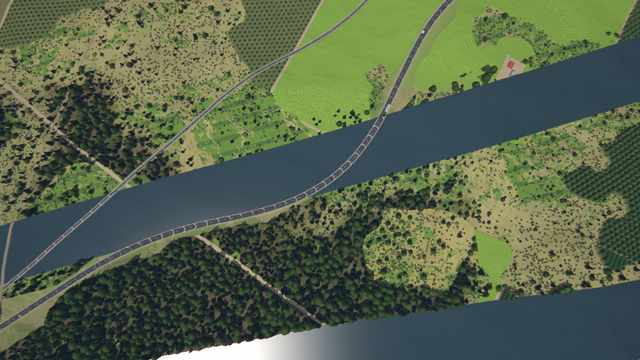
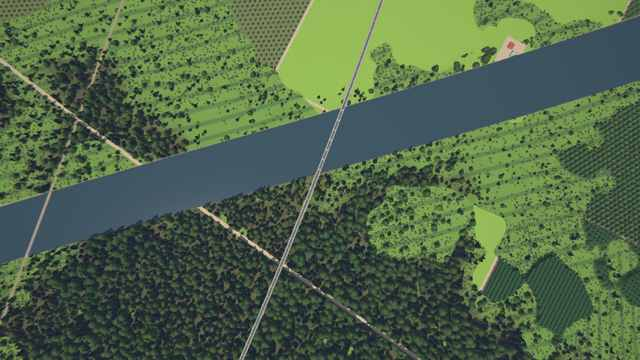
transport: river crossings cost per metre of bridge (no mountain detours), places moved with the routes, tunnel count in the verification, docs

diff --git a/crates/terragen/src/kits/transport/tests.rs b/crates/terragen/src/kits/transport/tests.rs
@@ -14,13 +14,13 @@ fn world() -> World {
 /// Places of the default world where the kit draws: (name, lat, lon), for the tests and stills
 /// (`find_transport_places`).
 pub(crate) const PLACES: &[(&str, f64, f64)] = &[
-    ("parclo", -7.6570, -16.6301),
+    ("parclo", -7.6475, -16.6320),
     ("diamond", -7.6988, -18.7191),
-    ("trumpet", -23.7536, -33.8316),
+    ("trumpet", -23.7203, -33.8120),
     ("switchbacks", -24.1868, -33.3606),
     ("station", -7.7302, -18.7965),
     ("yard", -7.7461, -18.7972),
-    ("roundabout", -7.6185, -16.6091),
+    ("roundabout", -7.6230, -16.6053),
     ("power", -7.8316, -18.8000),
     ("portal", 29.3400, 179.4257),
     ("bridge", -7.5782, -18.7463),
@@ -888,6 +888,7 @@ fn routes_avoid_water_and_sites() {
     let only = std::env::var("TR_REGION").ok();
     let (mut n_route, mut n_seg, mut n_river, mut n_narrow, mut n_pond, mut n_xing, mut n_oblique) = (0, 0, 0, 0, 0, 0, 0);
     let mut sin_sum = 0.0;
+    let mut n_tunnel = 0;
     let mut bad: Vec<String> = Vec::new();
     let mut sites_bad = 0;
     let (mut br_wet, mut br_dry) = (0, 0);
@@ -968,6 +969,7 @@ fn routes_avoid_water_and_sites() {
         n_route += seen;
         // bridges (not overpasses): over water or a valley
         let f = build::features(&mut ctx, &area);
+        n_tunnel += f.segs.iter().filter(|s| s.flags & flag::TUNNEL != 0).count();
         for s in f.segs.iter().filter(|s| s.flags & flag::BRIDGE != 0 && s.flags & flag::OVER == 0 && s.kind != cls::KIND0 + cls::RAMP as u32) {
             let m = (s.a + s.b) * 0.5;
             let g = geodesy::ecef2geodetic(m, &w.ell);
@@ -984,7 +986,7 @@ fn routes_avoid_water_and_sites() {
         eprintln!("{b}");
     }
     eprintln!(
-        "{n_route} routes, {n_seg} sampled 25 m pieces: {} in water or sites ({sites_bad} in sites), {n_narrow} narrow crossings, {n_river} points over rivers and streams; {n_xing} river crossings ({:.1} per 100 km, mean sin {:.2}, {n_oblique} under 30°); {n_pond} points over ponds; bridges over water {br_wet}, over dry valleys {br_dry}",
+        "{n_route} routes, {n_seg} sampled 25 m pieces: {} in water or sites ({sites_bad} in sites), {n_narrow} narrow crossings, {n_river} points over rivers and streams; {n_xing} river crossings ({:.1} per 100 km, mean sin {:.2}, {n_oblique} under 30°); {n_pond} points over ponds; bridges over water {br_wet}, over dry valleys {br_dry}; {n_tunnel} tunnel segments",
         bad.len(),
         n_xing as f64 / (n_seg as f64 * 25.0 / 1e5),
         sin_sum / n_xing.max(1) as f64
@@ -1233,15 +1235,17 @@ fn find_routing_places() {
         (g.lat.to_degrees(), g.lon.to_degrees())
     };
     let (mut n_det, mut n_x) = (0, 0);
-    for &(name, lat, lon) in ROUTE_REGIONS.iter().filter(|r| r.0.starts_with("lakes") || matches!(r.0, "bridge" | "parclo" | "dam")) {
-        let (routes, _, _) = build::area_routes(&mut ctx, &Area { center: ecef(&w, lat, lon), radius: 6_000.0, gsd: 30.0 });
+    for &(name, lat, lon) in ROUTE_REGIONS.iter().filter(|r| r.0.starts_with("lakes") || matches!(r.0, "dam" | "bridge" | "parclo")) {
+        let (routes, _, _) = build::area_routes(&mut ctx, &Area { center: ecef(&w, lat, lon), radius: 8_000.0, gsd: 30.0 });
         for r in routes.iter().filter(|r| r.e.class <= cls::LOCAL) {
             let bs = build::base(&w, &r.e);
             let [a, b] = bs.ends;
             for lk in &bs.scene.lakes {
                 let c = route::surface(&w, lk.pt);
                 let (d, _) = r.line.dist(c);
-                if lk.rad > 250.0 && net::chord_dist(a, b, c) < 0.5 * lk.rad && d > 1.0 * lk.rad && d < 1.8 * lk.rad && n_det < 10 {
+                // (the chord through the lake's middle, away from the ends; the route round it)
+                let t = (c - a).dot(b - a) / (b - a).length_squared();
+                if lk.rad > 200.0 && lk.rad < 1_500.0 && (0.15..0.85).contains(&t) && net::chord_dist(a, b, c) < 0.6 * lk.rad && d > 0.9 * lk.rad && d < 2.0 * lk.rad && n_det < 12 {
                     let (la, lo) = ll(c);
                     let (pa, po) = ll(r.line.at(r.line.dist(c).1).0);
                     eprintln!("{name}: class {} around a lake (r {:.0} m) at ({la:.4}, {lo:.4}), road at ({pa:.4}, {po:.4})", r.e.class, lk.rad);
@@ -1249,7 +1253,7 @@ fn find_routing_places() {
                 }
             }
             // wide river crossings
-            if n_x < 10 && r.e.class >= cls::SECONDARY {
+            if n_x < 10 && r.e.class >= cls::SECONDARY && std::env::var("TR_RIVERS").is_ok() {
                 let n = (r.line.len() / 20.0) as usize;
                 let mut inr = false;
                 for k in 0..n {
@@ -1265,5 +1269,37 @@ fn find_routing_places() {
                 }
             }
         }
+    }
+}
+
+/// Debug: the kit's stamps near a point (`TR_SPEC` "lat,lon,radius"):
+/// `stamps_near -- --ignored --nocapture`.
+#[test]
+#[ignore]
+fn stamps_near() {
+    let spec = std::env::var("TR_SPEC").unwrap_or("-7.6185,-16.6091,2000".into());
+    let v: Vec<f64> = spec.split(',').map(|x| x.trim().parse().unwrap()).collect();
+    let w = world();
+    let mut pts = CpuPoints(&w);
+    let mut ctx = HostCtx { world: &w, points: &mut pts };
+    let f = build::features(&mut ctx, &Area { center: ecef(&w, v[0], v[1]), radius: v[2], gsd: 2.0 });
+    for st in &f.stamps {
+        let g = geodesy::ecef2geodetic(st.center, &w.ell);
+        eprintln!("stamp {} at ({:.5}, {:.5})", st.template, g.lat.to_degrees(), g.lon.to_degrees());
+    }
+    // interchange ramps: their centroids, in clusters of 1.5 km
+    let mut cl: Vec<(DVec3, usize)> = Vec::new();
+    for sg in f.segs.iter().filter(|s| s.kind == cls::KIND0 + cls::RAMP as u32) {
+        match cl.iter_mut().find(|c| (c.0 / c.1 as f64 - sg.a).length() < 1_500.0) {
+            Some(c) => {
+                c.0 += sg.a;
+                c.1 += 1;
+            }
+            None => cl.push((sg.a, 1)),
+        }
+    }
+    for (c, n) in cl {
+        let g = geodesy::ecef2geodetic(c / n as f64, &w.ell);
+        eprintln!("ramps: {n} segments around ({:.5}, {:.5})", g.lat.to_degrees(), g.lon.to_degrees());
     }
 }

diff --git a/crates/terragen/src/kits/transport/route.rs b/crates/terragen/src/kits/transport/route.rs
@@ -36,7 +36,8 @@ pub struct Params {
     pub town: f64,
     /// extra cost per metre over standing water (lakes, reservoirs)
     pub lake: f64,
-    /// cost of a river crossing (m; × (0.5 + half width / 40 m), × up to 3 when oblique)
+    /// cost of a river crossing (m), plus [`BRIDGE`] per metre of bridge (the channel's width
+    /// over the sine of the crossing angle)
     pub xing: f64,
     /// the longest lake a route crosses (m, a narrow neck on a bridge; reservoirs and the sea:
     /// × 3; 0: any)
@@ -52,13 +53,13 @@ pub struct Params {
 #[rustfmt::skip]
 pub const PARAMS: [Params; cls::N] = [
     // motorway, trunk, secondary, local, track, ramp, rail, power
-    Params { step: 2_500.0, width: 0.16, k: 300.0, k2: 30_000.0, glim: 0.05, gmax: 0.0, turn: 150.0, wet: 40.0, town: 6.0, lake: 60.0, xing: 3_000.0, span: 500.0, smooth: 1, smooth_turns: true, window: 400.0 },
-    Params { step: 1_500.0, width: 0.18, k: 160.0, k2: 12_000.0, glim: 0.07, gmax: 0.0, turn: 60.0, wet: 25.0, town: 2.0, lake: 50.0, xing: 2_000.0, span: 500.0, smooth: 1, smooth_turns: true, window: 250.0 },
-    Params { step: 400.0, width: 0.2, k: 100.0, k2: 6_000.0, glim: 0.10, gmax: 0.11, turn: 15.0, wet: 20.0, town: 0.0, lake: 40.0, xing: 1_000.0, span: 160.0, smooth: 3, smooth_turns: false, window: 0.0 },
-    Params { step: 150.0, width: 0.22, k: 60.0, k2: 4_000.0, glim: 0.12, gmax: 0.13, turn: 6.0, wet: 15.0, town: 0.0, lake: 30.0, xing: 600.0, span: 160.0, smooth: 3, smooth_turns: false, window: 0.0 },
-    Params { step: 100.0, width: 0.22, k: 40.0, k2: 3_000.0, glim: 0.16, gmax: 0.16, turn: 4.0, wet: 10.0, town: 0.0, lake: 25.0, xing: 300.0, span: 160.0, smooth: 3, smooth_turns: false, window: 0.0 },
+    Params { step: 2_500.0, width: 0.16, k: 300.0, k2: 30_000.0, glim: 0.05, gmax: 0.0, turn: 150.0, wet: 40.0, town: 6.0, lake: 60.0, xing: 600.0, span: 500.0, smooth: 1, smooth_turns: true, window: 400.0 },
+    Params { step: 1_500.0, width: 0.18, k: 160.0, k2: 12_000.0, glim: 0.07, gmax: 0.0, turn: 60.0, wet: 25.0, town: 2.0, lake: 50.0, xing: 500.0, span: 500.0, smooth: 1, smooth_turns: true, window: 250.0 },
+    Params { step: 400.0, width: 0.2, k: 100.0, k2: 6_000.0, glim: 0.10, gmax: 0.11, turn: 15.0, wet: 20.0, town: 0.0, lake: 40.0, xing: 300.0, span: 160.0, smooth: 3, smooth_turns: false, window: 0.0 },
+    Params { step: 150.0, width: 0.22, k: 60.0, k2: 4_000.0, glim: 0.12, gmax: 0.13, turn: 6.0, wet: 15.0, town: 0.0, lake: 30.0, xing: 200.0, span: 160.0, smooth: 3, smooth_turns: false, window: 0.0 },
+    Params { step: 100.0, width: 0.22, k: 40.0, k2: 3_000.0, glim: 0.16, gmax: 0.16, turn: 4.0, wet: 10.0, town: 0.0, lake: 25.0, xing: 100.0, span: 160.0, smooth: 3, smooth_turns: false, window: 0.0 },
     Params { step: 100.0, width: 0.0, k: 0.0, k2: 0.0, glim: 1.0, gmax: 0.0, turn: 0.0, wet: 0.0, town: 0.0, lake: 0.0, xing: 0.0, span: 0.0, smooth: 0, smooth_turns: false, window: 0.0 },
-    Params { step: 2_500.0, width: 0.16, k: 2_500.0, k2: 80_000.0, glim: 0.022, gmax: 0.0, turn: 200.0, wet: 40.0, town: 6.0, lake: 60.0, xing: 3_000.0, span: 500.0, smooth: 1, smooth_turns: true, window: 600.0 },
+    Params { step: 2_500.0, width: 0.16, k: 2_500.0, k2: 80_000.0, glim: 0.022, gmax: 0.0, turn: 200.0, wet: 40.0, town: 6.0, lake: 60.0, xing: 600.0, span: 500.0, smooth: 1, smooth_turns: true, window: 600.0 },
     Params { step: 2_500.0, width: 0.08, k: 4.0, k2: 40.0, glim: 0.3, gmax: 0.0, turn: 30.0, wet: 0.5, town: 3.0, lake: 0.5, xing: 0.0, span: 0.0, smooth: 0, smooth_turns: false, window: 0.0 },
 ];
 
@@ -67,6 +68,9 @@ pub const PARAMS: [Params; cls::N] = [
 pub fn span(class: usize, wide: bool) -> f64 {
     PARAMS[class].span * if wide { 3.0 } else { 1.0 }
 }
+
+/// Cost per metre of a river bridge (on top of the length).
+pub const BRIDGE: f64 = 12.0;
 
 /// Extra corridor half width of the second try (m).
 pub const WIDEN: f64 = 600.0;
@@ -636,7 +640,7 @@ fn crossings(sc: &Scene, pr: &Params, n0: &Probe, n1: &Probe) -> f64 {
         }
         let sin = ex.cross((s.b - s.a).normalize_or_zero()).length();
         let hw = s.hw + (s.hw_b - s.hw) * t;
-        c += pr.xing * (0.5 + hw / 40.0) * (1.0 + 2.0 * (1.0 - sin));
+        c += pr.xing + BRIDGE * 2.0 * hw / sin.max(0.25);
     }
     c
 }

diff --git a/docs/kits/transport.md b/docs/kits/transport.md
@@ -50,9 +50,10 @@ edge has a *scene* of host knowledge along its corridor, the same on both backen
   length, the sea 10–40; each step also measures its chord inside the lakes' outlines, so a
   coarse step does not jump a lake between two dry nodes.
 * **River crossings** (levels 0–1, in each level's meander-warped space): a cost per crossing
-  of 150 m (tracks) … 2 km (motorways, railways) × (0.5 + half width / 40 m), up to ×3 when
-  oblique (`1 + 2 (1 − sin θ)`): few crossings, near perpendicular. Bridges over the water are
-  then drawn per pixel (slot 8) and from the profiles.
+  of 100 m (tracks) … 600 m (motorways, railways) plus 12 per metre of bridge (the channel's
+  width over the sine of the crossing angle, ≥ 0.25): few crossings, near perpendicular, and no
+  mountain detours to avoid a big river. Bridges over the water are then drawn per pixel (slot
+  8) and from the profiles.
 * **Sites:** the settlements kit's airports, quarries (a disc of 1.6 pit radii), solar and wind
   farms are no-go footprints (widened by the road: half width + verge + 15 m; power lines 30 m)
   and its reservoirs are standing water. Sites need point samples, so they enter in a second
@@ -124,7 +125,7 @@ lane lines, hard shoulders, wide verges; trunk and secondary roads: centre dashe
 local roads paved or gravel; tracks: two ruts and a grass strip; urban stretches: sidewalks and
 curbs instead of verges. Verges and slopes clear the trees; towns are drawn over by the roads
 (the kit runs in slot 7 after the settlements kit), so the rural network continues into the
-towns' street grids to their centres.
+towns' street grids up to their arterials.
 
 ## Levels of detail
 
@@ -136,9 +137,24 @@ kept modulo 8.4 km (every pattern period divides it).
 
 ## Decisions
 
-* **Host-built graph, analytic routing.** The design's §6.3 pipeline as specified, with RNGs per
-  network instead of per road cell (an edge is a pure function of the node set; no cell
-  ownership needed) and refinement per coarse piece so motorways adapt locally.
+* **Host-built graph, host routing.** The design's §6.3 pipeline, with RNGs per network
+  instead of per road cell (an edge is a pure function of the node set; no cell ownership
+  needed) and refinement per coarse piece so motorways adapt locally.
+* **Routing sees water, drainage and sites; two stages.** Instead of snapping vertices to valley
+  floors (§6.3), the cost terrain has the major valleys carved in, so the grade cost itself
+  prefers the floors. Water and drainage are host-analytic (the same code paths and constants as
+  `World::terrain`), so the analytic stage stays a pure function of the edge; sites need point
+  samples, so they come second, only for the sites within reach of the analytic route (a site
+  search over a 400 km motorway's whole corridor would evaluate hundreds of airports and dams).
+  A route that still fails its check is dropped rather than drawn through water or a site.
+* **Narrow crossings, not causeways:** standing water is crossed only on a bridge no longer than
+  the class's span (500 m major, 160 m minor; reservoirs, which flood the valleys roads have to
+  cross, and the sea × 3); the per-pixel decks of slot 8 draw it. Ponds of the cold kit's small
+  lattice (≤ ~115 m, slot-3 looks, not pass-A water) are crossed on the road's fill.
+* **Roads end at the arterials.** A road's end inside a town is a point of the town model's
+  district edges (the arterials, 4–9 m half width, drawn by the settlements kit), not the centre:
+  roads from different directions end on different arterials, with no star of carriageways over
+  the core. Railways keep the centre (stations), power lines stop at the edge.
 * **Slot 7, after the settlements kit**, not slot 6: drawn after the towns, the roads continue
   into them over the blocks without exposing what lies under the town at their edges
   (compositing a town cut by the road left the ground showing at antialiased edges). Site roads
@@ -154,14 +170,19 @@ kept modulo 8.4 km (every pattern period divides it).
 
 ## Places
 
-Places of the default world (`PLACES` in the tests): partial cloverleaf (−7.6570, −16.6301),
-diamond (−7.6988, −18.7191), trumpet on a mountain motorway (−23.7536, −33.8316), switchbacks
+Places of the default world (`PLACES` in the tests): partial cloverleaf (−7.6475, −16.6320),
+diamond (−7.6988, −18.7191), trumpet on a mountain motorway (−23.7203, −33.8120), switchbacks
 (−24.1868, −33.3606), station (−7.7302, −18.7965) and yard (−7.7461, −18.7972) of a city,
-roundabouts at a town edge (−7.6185, −16.6091), power line through forest (−7.8316, −18.8000),
+roundabout at a town edge (−7.6230, −16.6053), power line through forest (−7.8316, −18.8000),
 tunnel portal (29.3400, 179.4257), river bridges (−7.5782, −18.7463), forest tracks (−7.64,
-−16.66). Find more with the ignored tests `find_transport_places`, `find_transport_places2`
-(switchbacks, interchanges by size, rural bridges and tunnels, power lines) and
-`find_river_bridges`.
+−16.66); a secondary road around a lake (20.5642, −30.1732), a secondary road crossing a
+134 m river (−7.5470, −18.7959). The routing verification's regions (`ROUTE_REGIONS`) add the
+settlements kit's airport, quarry, solar, wind and dam places, kettle-lake lowlands (65.2726,
+−28.7446), (63.0479, 13.4909) and lake districts (16.2337, −96.5839), (20.4996, −30.0929),
+(30.2156, −89.0182), (46.0667, 2.2438), (−2.4905, −123.2721). Find more with the ignored tests
+`find_transport_places`, `find_transport_places2` (switchbacks, interchanges by size, rural
+bridges and tunnels, power lines), `find_river_bridges`, `find_lake_regions`,
+`find_cold_lake_regions` and `find_routing_places` (lake detours, wide river crossings).
 
 ## Tests
 
@@ -169,8 +190,15 @@ tunnel portal (29.3400, 179.4257), river bridges (−7.5782, −18.7463), forest
 determinism), `edges_are_tile_independent`, `routes_are_deterministic`,
 `profiles_are_local_and_grade_limited`, `features_are_tile_independent` (overlapping areas give
 the same segments bit for bit; cleared caches), `ramps_connect`, LOD consistency, seams E-W /
-N-S, determinism (fresh generators and caches), `tiles_match_the_cpu`, `places_stay_on_the_gpu`;
-ignored: `find_transport_places`, `find_transport_places2`, `render_tiles`, `debug_parity`.
+N-S, determinism (fresh generators and caches), `tiles_match_the_cpu`, `places_stay_on_the_gpu`,
+`routes_avoid_water_and_sites` (the routes near 20 regions sampled every 25 m against pass A's
+water on the CPU, the sites' footprints and reservoirs and the cold kit's kettle lakes: no point
+in a site a route does not end at, no run of lake, reservoir or sea longer than the class's
+span; ~400 routes, ~21 k pieces; `TR_REGION=name` one region), `roads_end_at_town_arterials`
+(no road ends within 0.35 R of a town's centre); ignored: `find_transport_places`,
+`find_transport_places2`, `find_river_bridges`, `find_lake_regions`, `find_cold_lake_regions`,
+`find_routing_places`, `routing_time` (`TR_WHY=1`: why edges were dropped), `render_tiles`,
+`debug_parity`.
 
 ## Compile time and performance
 
@@ -221,10 +249,24 @@ the same roads through forest from 500 m.
 
 ## Known limits
 
-* Routing costs use the analytic relief (no drainage, no lakes): routes do not seek the valleys
-  the rivers carve, cross rivers anywhere (decks are added per pixel) and can run through lakes,
-  where they become causeway decks; they cross airports, quarries and solar farms (sites need
-  point samples, routes are analytic).
+* Routing's water model is host knowledge, close to pass A but not identical: a lattice lake's
+  existence comes from the values at its centre (pass A tests per pixel), the valley carve
+  leaves out the kits' carve hooks (glacial troughs, fjords, canyons), the cold kit's lake mask
+  is estimated from pass A's values and the relief's slope, the streams' (level 2) closed basins
+  are known to minor roads only, mountain tarns and crater lakes not at all, and the route is
+  checked every span / 6 (25–83 m). The verification finds no violation at its 20 regions; a
+  shore can still be clipped by a few metres between samples.
+* An edge whose corridor is blocked by water wider than the class bridges or by sites is
+  dropped (the graph adds no alternative): 2–5 % of the edges in lake districts and around
+  reservoirs, 0–2 % elsewhere (`routing_time`, `TR_WHY=1` lists them). Ends in water (a hamlet in a
+  reservoir, a track end in a lake) move to the shore, leaving the road short of the place.
+* Sites need point samples, so routes now depend on them too: within a process the site cache
+  makes both backends share them; across processes (GPU f32 vs CPU f64 samples) an airport whose
+  candidates score within a hair of each other could move and with it a route.
+* River crossings are counted in each drainage level's meander-warped space between the grid
+  nodes, an approximation of the drawn channel: crossings are near perpendicular (mean sin 0.87
+  at the verification's crossings), but their number is mostly set by the network (a road
+  between two banks has to cross).
 * The grade limit is a local operator (±1.2 km): a climb steeper than the limit over a longer
   stretch keeps the terrain's grade (no detours); in rough terrain cuttings and tunnels are
   frequent. Tunnels need 30 m of cover over ≥ 200 m.
@@ -232,9 +274,9 @@ the same roads through forest from 500 m.
   tunnels or bridges there; sub-pixel). Secondary and smaller roads have no profiles: they follow
   the ground with a per-pixel deck 2.5 m above rivers.
 * Embankments and cuttings change the DSM, not pass A's ground (DTM, drainage).
-* Roads run to the place centres: metropolis cores get a star of converging roads; the towns'
-  streets are not re-aligned to them (the roads run over the blocks). Interchanges are left out
-  inside towns, so cloverleafs (motorway × motorway away from places) are rare.
+* Roads end on a town's arterials but are not re-aligned to its streets: between the edge and
+  the arterial they still run over the blocks of the outskirts. Interchanges are left out inside
+  towns, so cloverleafs (motorway × motorway away from places) stay rare.
 * Interchange templates are fitted to the crossing roads' directions; on very oblique crossings
   loops and ramps look schematic.
 * Bridge and tunnel decisions come from point samples (GPU f32 vs CPU f64 terrain); within a

diff --git a/CHANGELOG.md b/CHANGELOG.md
@@ -39,6 +39,21 @@
   noise-network roads off (pass A distances, the road pre-pass, WGSL `KITS_LEGACY_ROADS`); the
   farm tracks along region borders stay.
 
+- **Transport routing** (`kits/transport/{route,build}.rs`, `docs/kits/transport.md`): routes go
+  around water and sites and follow valleys. Each edge gets a scene along its corridor: the
+  relief with the valleys of drainage levels 0–1 carved in (the core's valley profile), the sea,
+  the core's lattice and closed-basin lakes, the cold kit's large kettle lakes, river crossings
+  (a cost per crossing, up to ×3 when oblique); a second stage adds the settlements kit's sites
+  near the route (airports, quarries, solar and wind farms as no-go footprints, reservoirs as
+  water) and routes again where it touches one. Lakes are crossed only on bridges over narrow
+  necks (500 m major, 160 m minor; reservoirs and the sea ×3), no more causeways; an edge that
+  cannot go around is dropped; ends in water move to the shore. Roads end on a town's arterials
+  (the settlements kit's district edges) instead of converging on its centre; power lines at its
+  edge. New tests `routes_avoid_water_and_sites` (~400 routes over 20 regions: 101 points in
+  water or sites before, 0 after) and `roads_end_at_town_arterials`; ignored `routing_time` and
+  finders. Core: `World::relief_terrain`, `World::river_segments_of` (some levels only), host
+  accessors of the lakes' levels.
+
 - **Settlements kit** (`kits/settlements.rs`, `settlements/{places,town,sites}.rs`,
   `docs/kits/settlements.md`): a central-place hierarchy (hamlet, village, town, city,
   metropolis; host-side and analytic, `kits::settlements::places::settlements_near` for the
